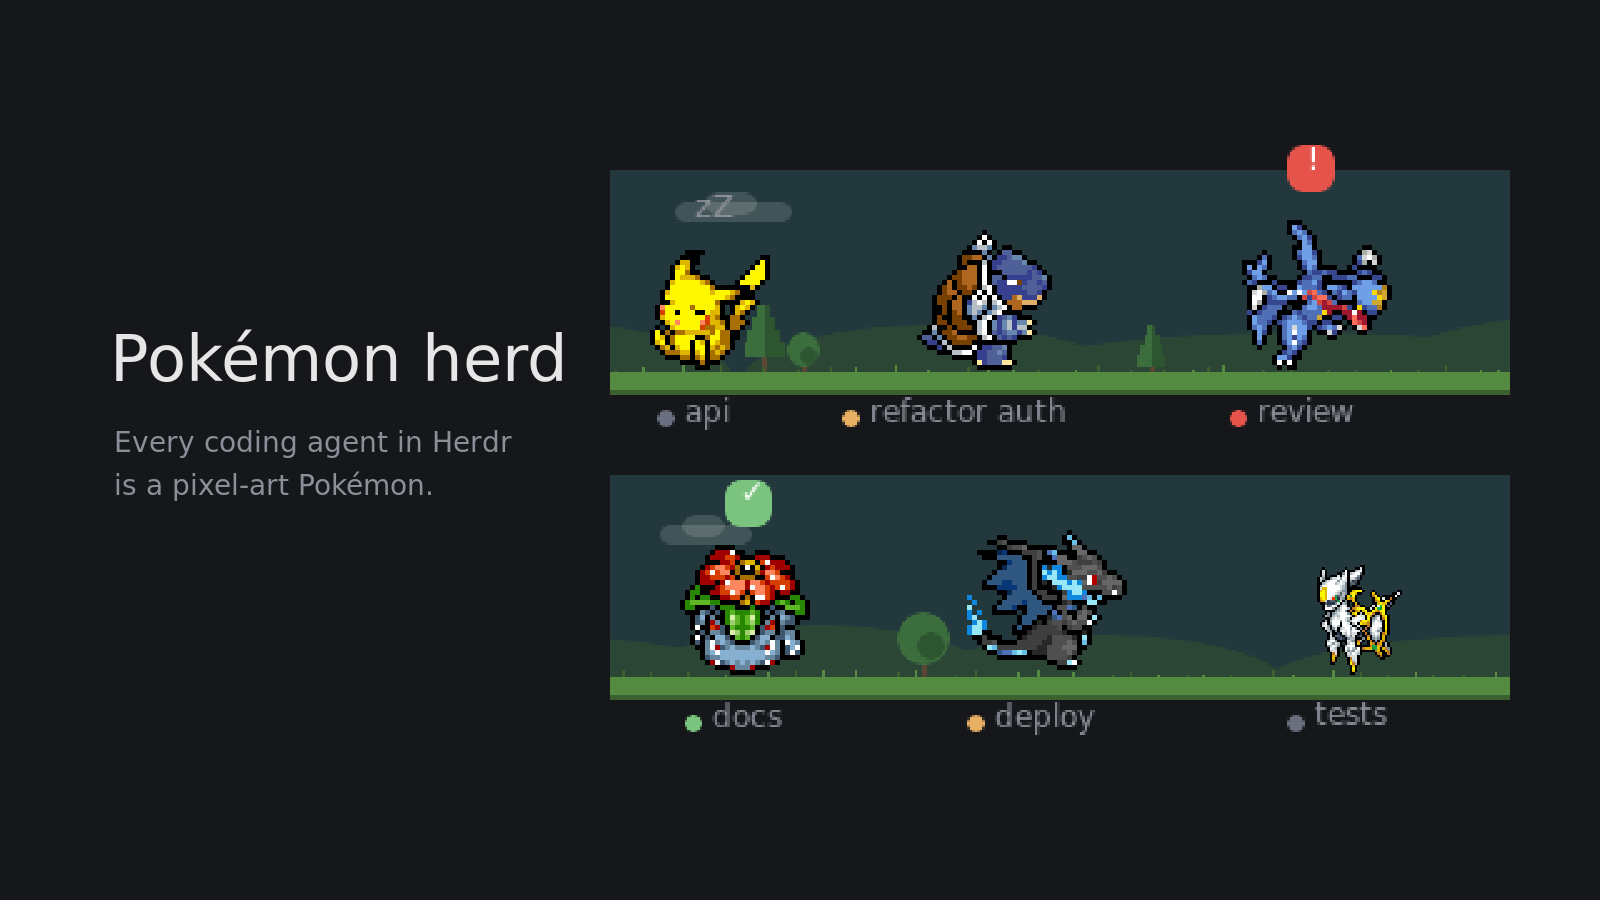
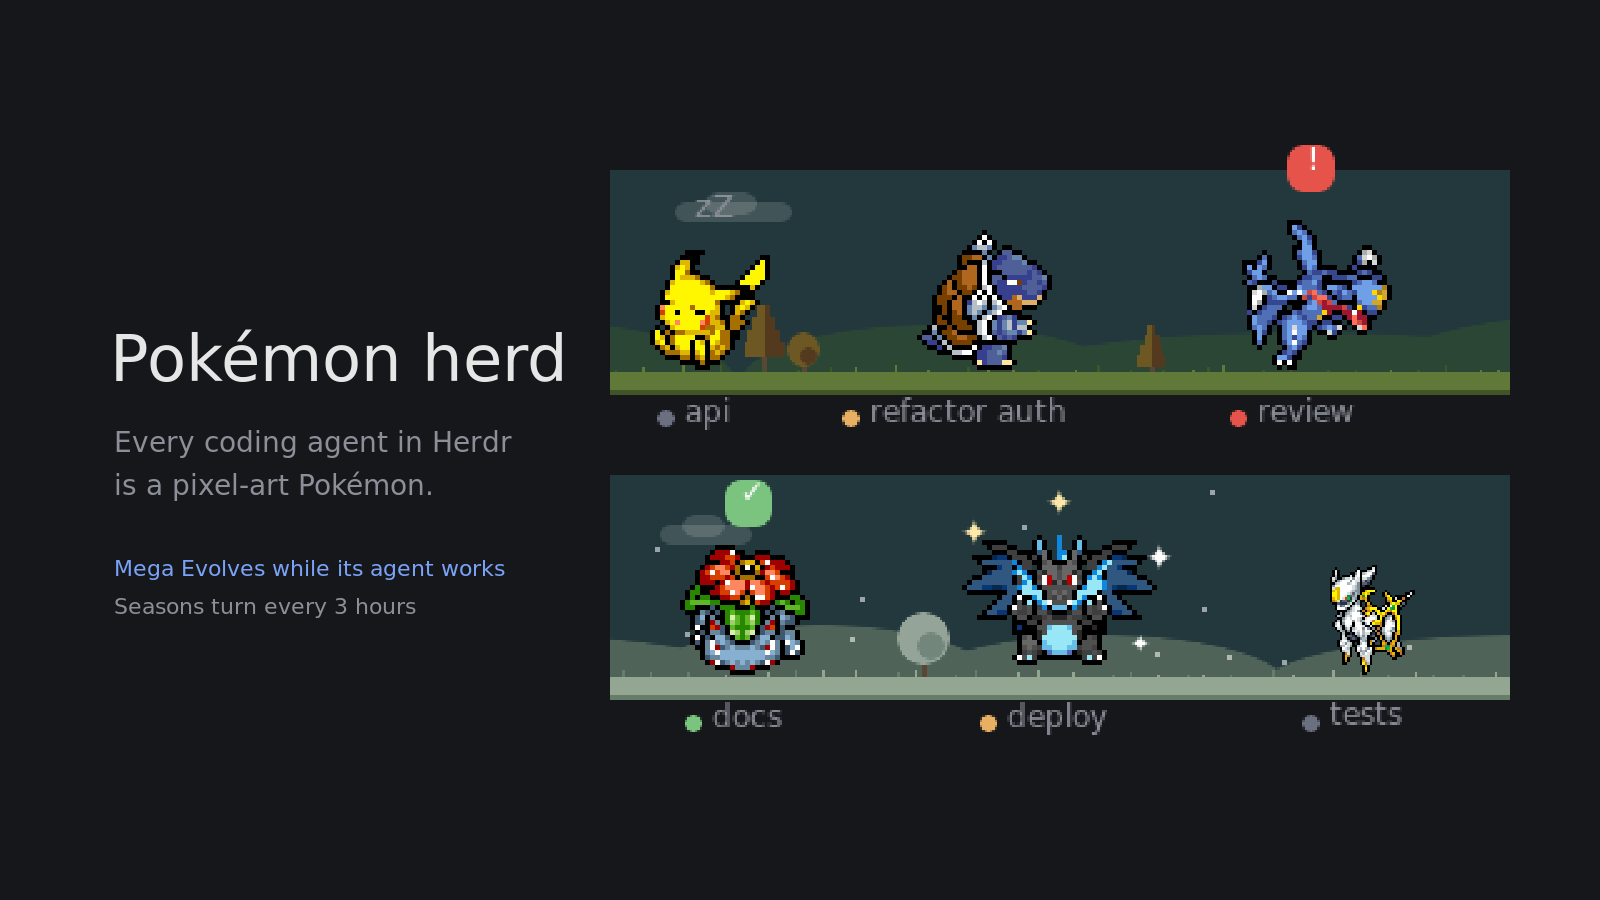
Seasons GIF; the gallery card shows autumn, snow and a fresh Mega Charizard X

diff --git a/scripts/make-demos.py b/scripts/make-demos.py
@@ -10,6 +10,7 @@ The sprites are PMDCollab's SpriteCollab (CC BY-NC 4.0): the README credits them
 Needs ImageMagick 7 (`magick`) and the DejaVu Sans font.
 """
 import json
+import math
 import os
 import shutil
 import subprocess
@@ -27,7 +28,11 @@ ROW_H = 122  # one row: sprites above the ground line, then two lines for names
 GROUND = 80  # ground line's y within a row
 NIGHT = {"focus"}  # scenes drawn by night (Scenery); the rest by day
 SCENE_JS = os.path.join(os.path.dirname(os.path.abspath(__file__)), "..", "mods", "pokemon-herd", "scene.js")
-sky = {"night": 0, "light": False, "dir": None, "cache": {}}  # the current scene's time of day, and backgrounds drawn so far
+# The current scene's time of day, its season per row (None: summer; else scene.js's { a, b, t }),
+# and the backgrounds drawn so far.
+sky = {"night": 0, "light": False, "season": None, "dir": None, "cache": {}, "flakes": {}}
+SEASON = {"spring": 0, "summer": 1, "autumn": 2, "winter": 3}
+season = lambda name: {"a": SEASON[name], "b": SEASON[name], "t": 0}
 
 
 def magick(*args):
@@ -121,16 +126,18 @@ def tag_lines(mons):
 def scenery(width, rows, top, h):
     """The mod's Scenery behind the rows, from scene.js itself (same colours, same seeded hills,
     clouds, stars and tufts), drawn once per strip size and time of day."""
-    key = (width, rows, top, h, sky["night"], sky["light"])
+    seasons = [(sky["season"] or [None] * rows)[r] if sky["season"] else None for r in range(rows)]
+    key = (width, rows, top, h, sky["night"], sky["light"], json.dumps(seasons))
     if key in sky["cache"]:
         return sky["cache"][key]
     js = (f"import('file://{os.path.abspath(SCENE_JS)}').then(m => console.log(JSON.stringify("
-          f"{{p: m.palette({sky['night']}, {str(sky['light']).lower()}), rows: [...Array({rows}).keys()].map(r => {{ const f = m.features({width}, {GROUND}, r); return {{ ...f, treeParts: f.trees.flatMap(t => m.treeParts(t, {GROUND + 1})) }}; }})}})))")
+          f"{json.dumps(seasons)}.map((s, r) => {{ const f = m.features({width}, {GROUND}, r); return {{ ...f, p: m.palette({sky['night']}, {str(sky['light']).lower()}, s), treeParts: f.trees.flatMap(t => m.treeParts(t, {GROUND + 1})) }}; }}))))")
     data = json.loads(subprocess.run(["node", "-e", js], check=True, capture_output=True, text=True).stdout)
-    p = data["p"]
     line = GROUND + 4
     args = ["-size", f"{width}x{h}", f"xc:{BG}"]
-    for r, f in enumerate(data["rows"]):
+    flakes = []
+    for r, f in enumerate(data):
+        p = f["p"]
         y0 = top + r * ROW_H
         args += ["-fill", p["sky"], "-draw", f"rectangle 0,{y0} {width},{y0 + line + 5}"]
         if p["stars"] > 0.05:
@@ -156,17 +163,37 @@ def scenery(width, rows, top, h):
         args += ["-fill", p["grass"], "-draw", f"rectangle 0,{y0 + line - 3} {width},{y0 + line + 3}"]
         for u in f["tufts"]:
             args += ["-fill", p["dark"] if u["dark"] else p["grass"], "-draw", f"rectangle {u['x']},{y0 + line - 3 - u['h']} {u['x']},{y0 + line - 4}"]
+        if p["flowers"] > 0.05:
+            for w in f["flowers"]:
+                c = ("#f2a6c8" if w["pink"] else "#f4e27a") + f"{round(255 * p['flowers'] * 0.75):02x}"
+                args += ["-fill", c, "-draw", f"rectangle {w['x']},{y0 + line - 4} {w['x'] + 1},{y0 + line - 3}"]
+        if p["snow"] > 0.05:
+            flakes.append((y0, f["flakes"], round(255 * p["snow"] * 0.55)))
         args += ["-fill", p["dark"], "-draw", f"rectangle 0,{y0 + line + 4} {width},{y0 + line + 5}"]
         args += ["-fill", BG, "-draw", f"rectangle 0,{y0 + line + 6} {width},{y0 + ROW_H - 1}"]  # names keep the plain strip
     path = os.path.join(sky["dir"], f"scenery-{len(sky['cache'])}.png")
     magick(*args, path)
     sky["cache"][key] = path
+    sky["flakes"][path] = flakes
     return path
 
 
-def draw(path, width, rows, mons, caption=None, caption_color=MUTED, cursor=None, top=44):
+def snow(background, t):
+    """Falling snow over a background, at t ms: scene.js's snowAt, frame by frame."""
+    out = []
+    for y0, flakes, a in sky["flakes"].get(background, []):
+        sec, line = t / 1000, GROUND + 4 - 2
+        for f in flakes:
+            x = math.floor(f["x"] + math.sin(sec * 0.8 + f["phase"]) * f["drift"])
+            y = y0 + math.floor((f["y"] + f["speed"] * sec) % line)
+            out += ["-fill", f"#ffffff{a:02x}", "-draw", f"rectangle {x},{y} {x + 1},{y + 1}"]
+    return out
+
+
+def draw(path, width, rows, mons, caption=None, caption_color=MUTED, cursor=None, top=44, t=0):
     h = top + rows * ROW_H - 18 * (rows == 1)
-    args = [scenery(width, rows, top, h)]
+    bg = scenery(width, rows, top, h)
+    args = [bg] + snow(bg, t)
     for m in mons:
         ground = top + m.row * ROW_H + GROUND
         x, y = m.anim.place(m.cx, ground)
@@ -368,33 +395,62 @@ def charizard_mega(tmp):
     s.save()
 
 
+def seasons(tmp):
+    """The four seasons going by (in the mod, 3 hours each), each blending into the next."""
+    A = lambda f, n: Anim.get(f, n, tmp)
+    s = Scene("seasons", tmp, 480, 1)
+    names, each, blend = ["spring", "summer", "autumn", "winter"], 2600, 400
+    for i in range(4 * each // TICK):
+        t = i * TICK
+        k, into = t // each, t % each
+        a = SEASON[names[k]]
+        mix = max(0, (into - (each - blend)) / blend)
+        sky["season"] = [{"a": a, "b": (a + 1) % 4, "t": round(mix * 4) / 4}]  # a few blend steps
+        sway = lambda lo, hi, ms: lo + (hi - lo) * ((t % ms) / (ms / 2) if t % ms < ms / 2 else 2 - (t % ms) / (ms / 2))
+        right = lambda ms: t % ms < ms / 2
+        mons = [  # each in its own stretch, so names never cross
+            Mon(A("0025", "walkR" if right(5000) else "walkL"), sway(45, 165, 5000), 0, "api", "working", t=t),
+            Mon(A("0009", "sleep"), 250, 0, "docs", t=t, zz=True),
+            Mon(A("0006-0001", "walkL" if right(4000) else "walkR"), sway(430, 350, 4000), 0, "deploy", "working", t=t),
+        ]
+        s.add(mons, caption=f"{names[k]} · a season every 3 hours", caption_color=FG, t=t)
+    sky["season"] = None
+    s.save()
+
+
 def preview(tmp):
     """preview.png at the repo root (the herdr.dev gallery card, 1600x900): the herd, big, with
     the mod's name."""
     A = lambda f, n: Anim.get(f, n, tmp)
     t = 1200
+    mega = A("0006-0001", "idleD")
     mons = [
         Mon(A("0025", "sleep"), 40, 0, "api", t=t, zz=True),
         Mon(A("0009", "walkR"), 150, 0, "refactor auth", "working", t=t),
         Mon(A("0445", "idleR"), 280, 0, "review", "blocked", t=t, bubble="!"),
         Mon(A("0003", "idleD"), 55, 1, "docs", "done", t=t, bubble="✓"),
-        Mon(A("0006-0001", "walkR"), 175, 1, "deploy", "working", t=t),
-        Mon(A("0493", "idleL"), 300, 1, "tests", t=t),
+        # Charizard, just Mega Evolved into Mega Charizard X as its agent got to work.
+        Mon(mega, 180, 1, "deploy", "working", t=t, sparkles=sparkle_ring(0, 180, 20 + ROW_H + GROUND - mega.height(), spread=40)),
+        Mon(A("0493", "idleL"), 305, 1, "tests", t=t),
     ]
+    sky["season"] = [season("autumn"), season("winter")]  # two of the seasons the scene turns through
     strip = os.path.join(tmp, "preview-strip.png")
-    draw(strip, 360, 2, mons, top=20)
+    draw(strip, 360, 2, mons, top=20, t=4000)
+    sky["season"] = None
     out = os.path.join(OUT, "..", "..", "preview.png")
     magick("-size", "1600x900", f"xc:{BG}", "(", strip, "-filter", "point", "-resize", "250%", ")", "-gravity", "east", "-geometry", "+90+0", "-composite",
            "-gravity", "northwest", "-font", FONT, "-fill", FG, "-pointsize", "64", "-annotate", "+110+330", "Pokémon herd",
            "-fill", MUTED, "-pointsize", "28", "-annotate", "+114+430", "Every coding agent in Herdr", "-annotate", "+114+472", "is a pixel-art Pokémon.",
+           "-fill", ACCENT, "-pointsize", "22", "-annotate", "+114+560", "Mega Evolves while its agent works",
+           "-fill", MUTED, "-annotate", "+114+598", "Seasons turn every 3 hours",
            out)
     print(f"{os.path.relpath(out)}: {os.path.getsize(out) // 1024} KB")
 
 
-SCENES = {"herd": herd, "focus": focus, "reactions": reactions, "variety": variety, "charizard-mega": charizard_mega, "preview": preview}
+SCENES = {"herd": herd, "focus": focus, "reactions": reactions, "variety": variety, "charizard-mega": charizard_mega, "seasons": seasons, "preview": preview}
 NEEDS = {"herd": ["0025", "0445", "0003", "0493", "0009", "0006-0001"], "focus": ["0025", "0003", "0493"],
          "reactions": ["0003", "0445"], "variety": ["0025", "0025s", "0037-0001", "0006-0001"],
-         "charizard-mega": ["0006", "0006-0001"], "preview": ["0025", "0009", "0445", "0003", "0006-0001", "0493"]}
+         "charizard-mega": ["0006", "0006-0001"], "seasons": ["0025", "0009", "0006-0001"], "preview": ["0025", "0009", "0445", "0003", "0006-0001", "0493"]}
 
 
 def main():

diff --git a/README.md b/README.md
@@ -50,12 +50,15 @@ Mega X / Y: pick one in the picker once both are drawn.
   clock, with clouds by day and stars and moon by night, and it never draws behind the names.
   It is muted in a dark theme and pale in a light one. The seasons turn every 3 hours: spring
   flowers, summer green, autumn leaves, then snow, a step further on each day.
+
   Switch it to **Plain** in the same menu.
 - **Stats:** each species counts the jobs its agents finished and the time they spent working.
   Two agents that are both Pikachu add to Pikachu's. The same menu shows the totals and the three
   busiest species.
 - The rows form one track: walk off the right edge of one and you turn up on the left of the next.
 - Drag a Pokémon to move it, or to change its row.
+
+<p align="center"><img src="docs/demo/seasons.gif" alt="The same strip through spring flowers, summer green, autumn leaves and falling snow" width="480"></p>
 
 ## Install
 
